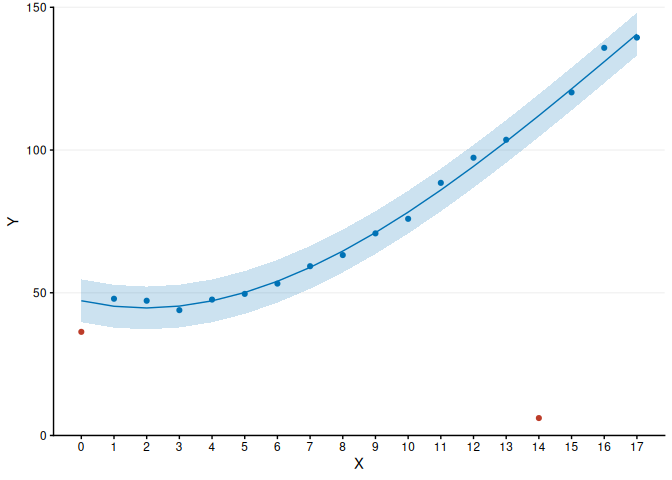
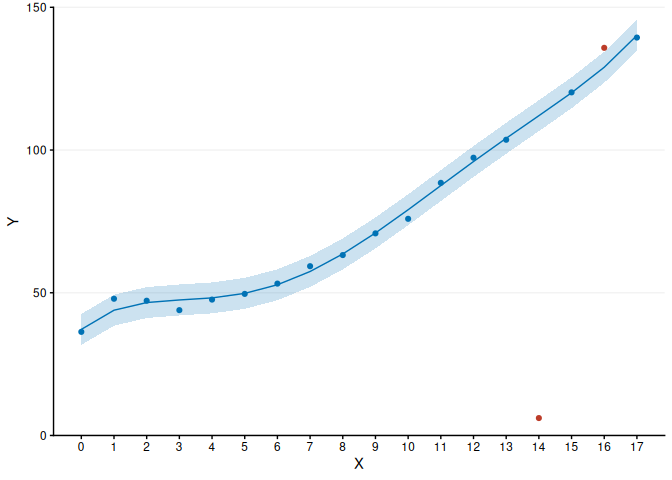
v0.13.5

Changed region(s): [[0.0938, 0.0312, 0.9688, 0.7188]]

diff --git a/docs/index.html b/docs/index.html
@@ -120,7 +120,7 @@
 <code class="sourceCode R"><span><span class="va">y</span> <span class="op">&lt;-</span> <span class="fu"><a href="https://rdrr.io/r/base/c.html" class="external-link">c</a></span><span class="op">(</span><span class="fl">36.3</span>, <span class="fl">47.9</span>, <span class="fl">47.2</span>, <span class="fl">43.9</span>, <span class="fl">47.6</span>, <span class="fl">49.6</span>, <span class="fl">53.2</span>, <span class="fl">59.3</span>, <span class="fl">63.2</span>, <span class="fl">70.8</span>, <span class="fl">75.9</span>, <span class="fl">88.5</span>,</span>
 <span>       <span class="fl">97.3</span>, <span class="fl">103.6</span>, <span class="fl">6.1</span>, <span class="fl">120.2</span>, <span class="fl">135.8</span>, <span class="fl">139.4</span><span class="op">)</span></span>
 <span><span class="va">x</span> <span class="op">&lt;-</span> <span class="fl">1</span><span class="op">:</span><span class="fu"><a href="https://rdrr.io/r/base/length.html" class="external-link">length</a></span><span class="op">(</span><span class="va">y</span><span class="op">)</span> <span class="op">-</span> <span class="fl">1</span></span>
-<span><span class="va">fig1</span> <span class="op">&lt;-</span> <span class="fu"><a href="reference/OR.outliers.rlm.ggplot.html">OR.outliers.rlm.ggplot</a></span><span class="op">(</span><span class="va">x</span>, <span class="va">y</span>, max.degree <span class="op">=</span> <span class="fl">3</span>, p <span class="op">=</span> <span class="fl">0.01</span>, x.title <span class="op">=</span> <span class="st">"X"</span>,</span>
+<span><span class="va">fig1</span> <span class="op">&lt;-</span> <span class="fu"><a href="reference/OR.outliers.rlm.ggplot.html">OR.outliers.rlm.ggplot</a></span><span class="op">(</span><span class="va">x</span>, <span class="va">y</span>, max.degree <span class="op">=</span> <span class="fl">5</span>, p <span class="op">=</span> <span class="fl">0.01</span>, x.title <span class="op">=</span> <span class="st">"X"</span>,</span>
 <span>                               y.breaks <span class="op">=</span> <span class="fu"><a href="https://rdrr.io/r/base/seq.html" class="external-link">seq</a></span><span class="op">(</span><span class="fl">0</span>, <span class="fl">150</span>, <span class="fl">50</span><span class="op">)</span>, y.title <span class="op">=</span> <span class="st">"Y"</span><span class="op">)</span></span>
 <span><span class="fu"><a href="https://rdrr.io/r/base/print.html" class="external-link">print</a></span><span class="op">(</span><span class="va">fig1</span><span class="op">)</span></span></code></pre></div>
 <p><img src="reference/figures/README-example_2-1.png" width="100%"></p>

diff --git a/docs/reference/OR.outliers.rlm.ggplot.html b/docs/reference/OR.outliers.rlm.ggplot.html
@@ -133,7 +133,7 @@ back-transformed for plotting.</p>
     <div class="sourceCode"><pre class="sourceCode r"><code><span class="r-in"><span><span class="va">y</span> <span class="op">&lt;-</span> <span class="fu"><a href="https://rdrr.io/r/base/c.html" class="external-link">c</a></span><span class="op">(</span><span class="fl">36.3</span>, <span class="fl">47.9</span>, <span class="fl">47.2</span>, <span class="fl">43.9</span>, <span class="fl">47.6</span>, <span class="fl">49.6</span>, <span class="fl">53.2</span>, <span class="fl">59.3</span>, <span class="fl">63.2</span>, <span class="fl">70.8</span>, <span class="fl">75.9</span>, <span class="fl">88.5</span>,</span></span>
 <span class="r-in"><span>       <span class="fl">97.3</span>, <span class="fl">103.6</span>, <span class="fl">6.1</span>, <span class="fl">120.2</span>, <span class="fl">135.8</span>, <span class="fl">139.4</span><span class="op">)</span></span></span>
 <span class="r-in"><span><span class="va">x</span> <span class="op">&lt;-</span> <span class="fl">1</span><span class="op">:</span><span class="fu"><a href="https://rdrr.io/r/base/length.html" class="external-link">length</a></span><span class="op">(</span><span class="va">y</span><span class="op">)</span> <span class="op">-</span> <span class="fl">1</span></span></span>
-<span class="r-in"><span><span class="fu">OR.outliers.rlm.ggplot</span><span class="op">(</span><span class="va">x</span>, <span class="va">y</span>, max.degree <span class="op">=</span> <span class="fl">3</span>, p <span class="op">=</span> <span class="fl">0.01</span>, x.title <span class="op">=</span> <span class="st">"X"</span>,</span></span>
+<span class="r-in"><span><span class="fu">OR.outliers.rlm.ggplot</span><span class="op">(</span><span class="va">x</span>, <span class="va">y</span>, max.degree <span class="op">=</span> <span class="fl">5</span>, p <span class="op">=</span> <span class="fl">0.01</span>, x.title <span class="op">=</span> <span class="st">"X"</span>,</span></span>
 <span class="r-in"><span>                       y.breaks <span class="op">=</span> <span class="fu"><a href="https://rdrr.io/r/base/seq.html" class="external-link">seq</a></span><span class="op">(</span><span class="fl">0</span>, <span class="fl">150</span>, <span class="fl">50</span><span class="op">)</span>, y.title <span class="op">=</span> <span class="st">"Y"</span><span class="op">)</span></span></span>
 <span class="r-plt img"><img src="OR.outliers.rlm.ggplot-1.png" alt="" width="700" height="433"></span>
 </code></pre></div>

diff --git a/README.md b/README.md
@@ -78,7 +78,7 @@ print(data1)
 y <- c(36.3, 47.9, 47.2, 43.9, 47.6, 49.6, 53.2, 59.3, 63.2, 70.8, 75.9, 88.5,
        97.3, 103.6, 6.1, 120.2, 135.8, 139.4)
 x <- 1:length(y) - 1
-fig1 <- OR.outliers.rlm.ggplot(x, y, max.degree = 3, p = 0.01, x.title = "X",
+fig1 <- OR.outliers.rlm.ggplot(x, y, max.degree = 5, p = 0.01, x.title = "X",
                                y.breaks = seq(0, 150, 50), y.title = "Y")
 print(fig1)
 ```
